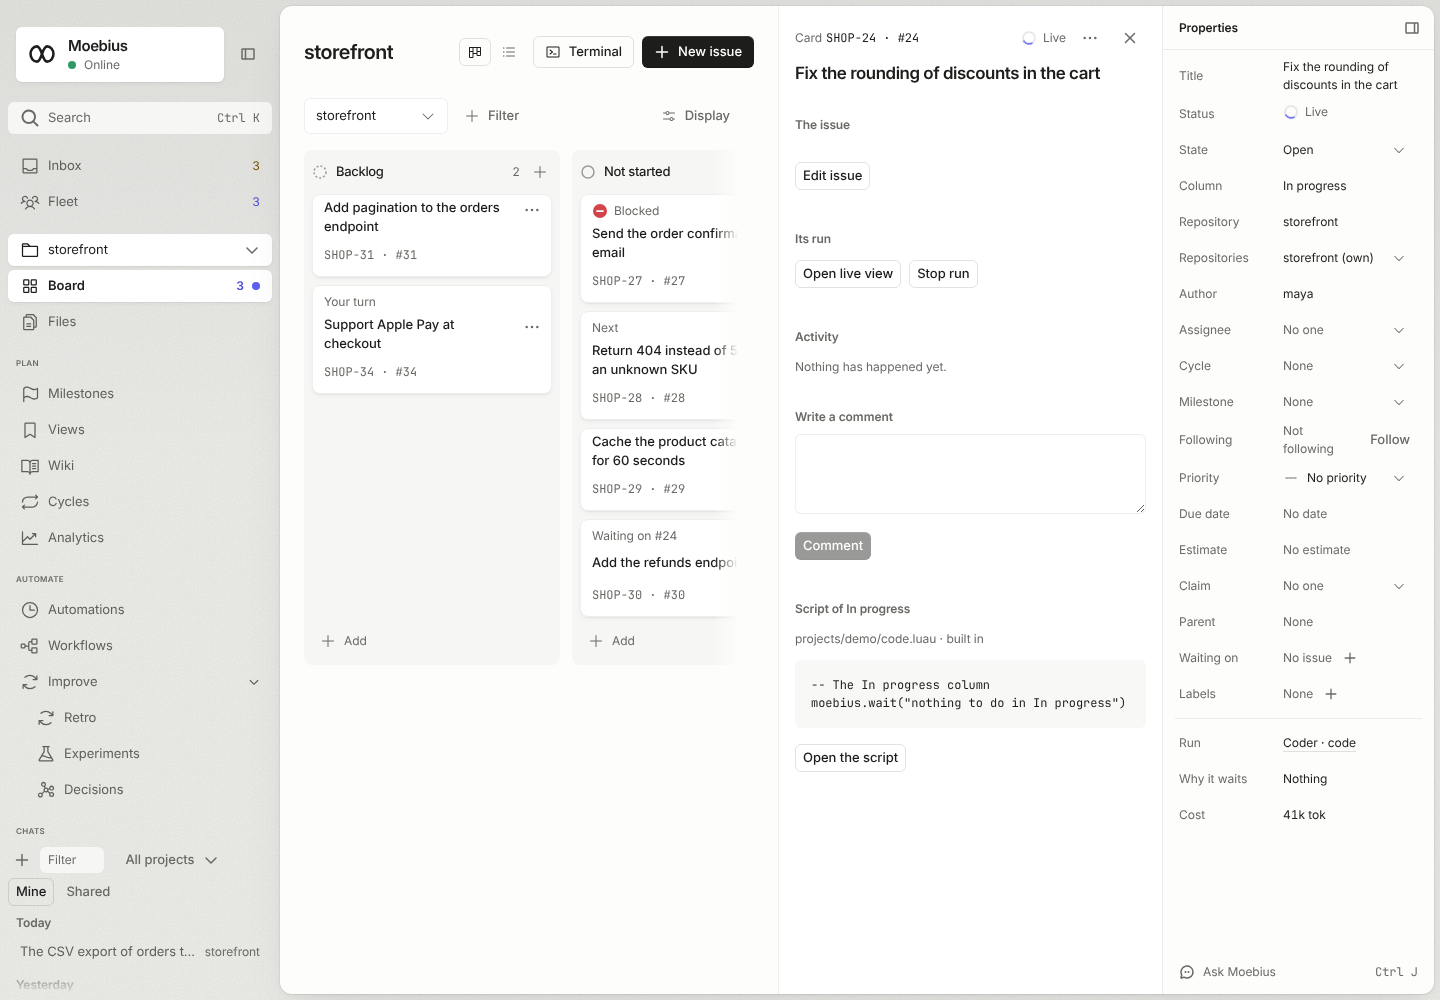
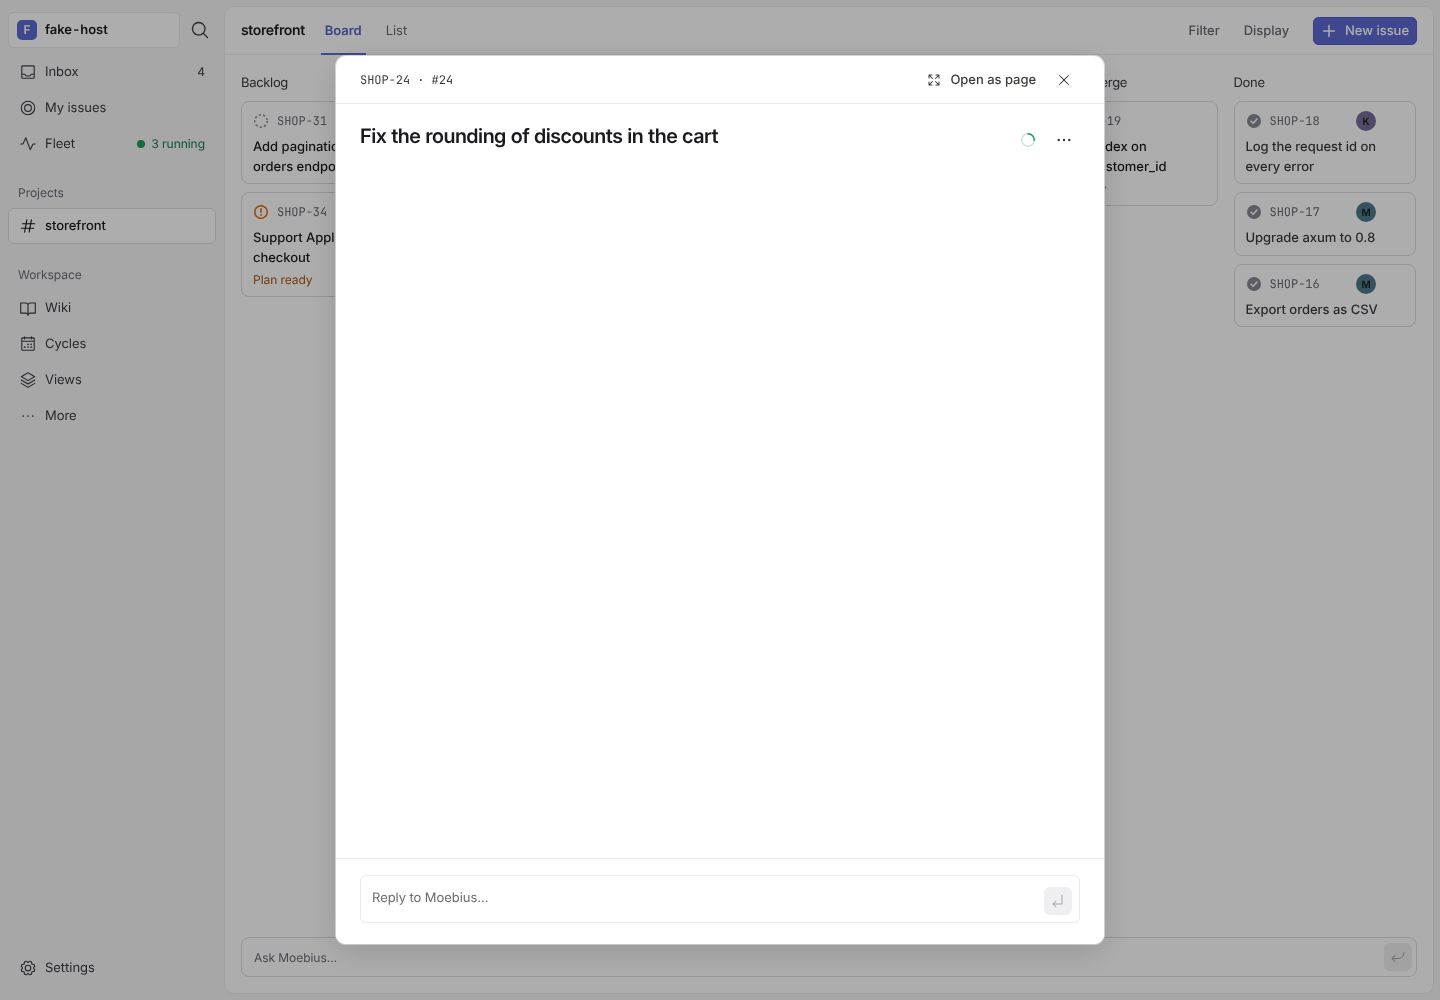
Regenerate the README pictures for the redesign
The script no longer collapses the sidebar, which has no rail any more, and the pictures show the card in its window.

Claude-Session: https://claude.ai/code/session_01ActzQQe7aPDyrntjc5aH1j

diff --git a/web/e2e/screenshots/readme.test.ts b/web/e2e/screenshots/readme.test.ts
@@ -381,8 +381,6 @@ for (const theme of THEMES) {
   it(`takes the pictures in the ${theme} theme`, async () => {
     const hero = await open(theme, 1.44, 1132, 2012);
     await visit(hero, "/board/1?card=none");
-    // The sidebar is a rail, so that the board and the Moebius agent both fit.
-    await hero.getByRole("button", { name: "Collapse the sidebar" }).click();
     await askAssistant(hero);
     await hero.screenshot({ path: join(OUT, `hero-${theme}.png`) });
     // The Moebius agent's conversation is the hero's alone: the lists of the other pages do not hold it.
@@ -394,7 +392,7 @@ for (const theme of THEMES) {
     // The chat at work is the chat page's picture; the Fleet shows the cards' runs.
     const chatAtWork = fake.chat.chats.find((chat) => chat.status === "running");
     if (chatAtWork) chatAtWork.status = "stopped";
-    // A card of the board with its properties in the right column.
+    // A card of the board in its window.
     await visit(page, "/board/1?card=24");
     await shoot(page, "card", theme);
     await visit(page, "/wiki?page=runbooks/deploy");
